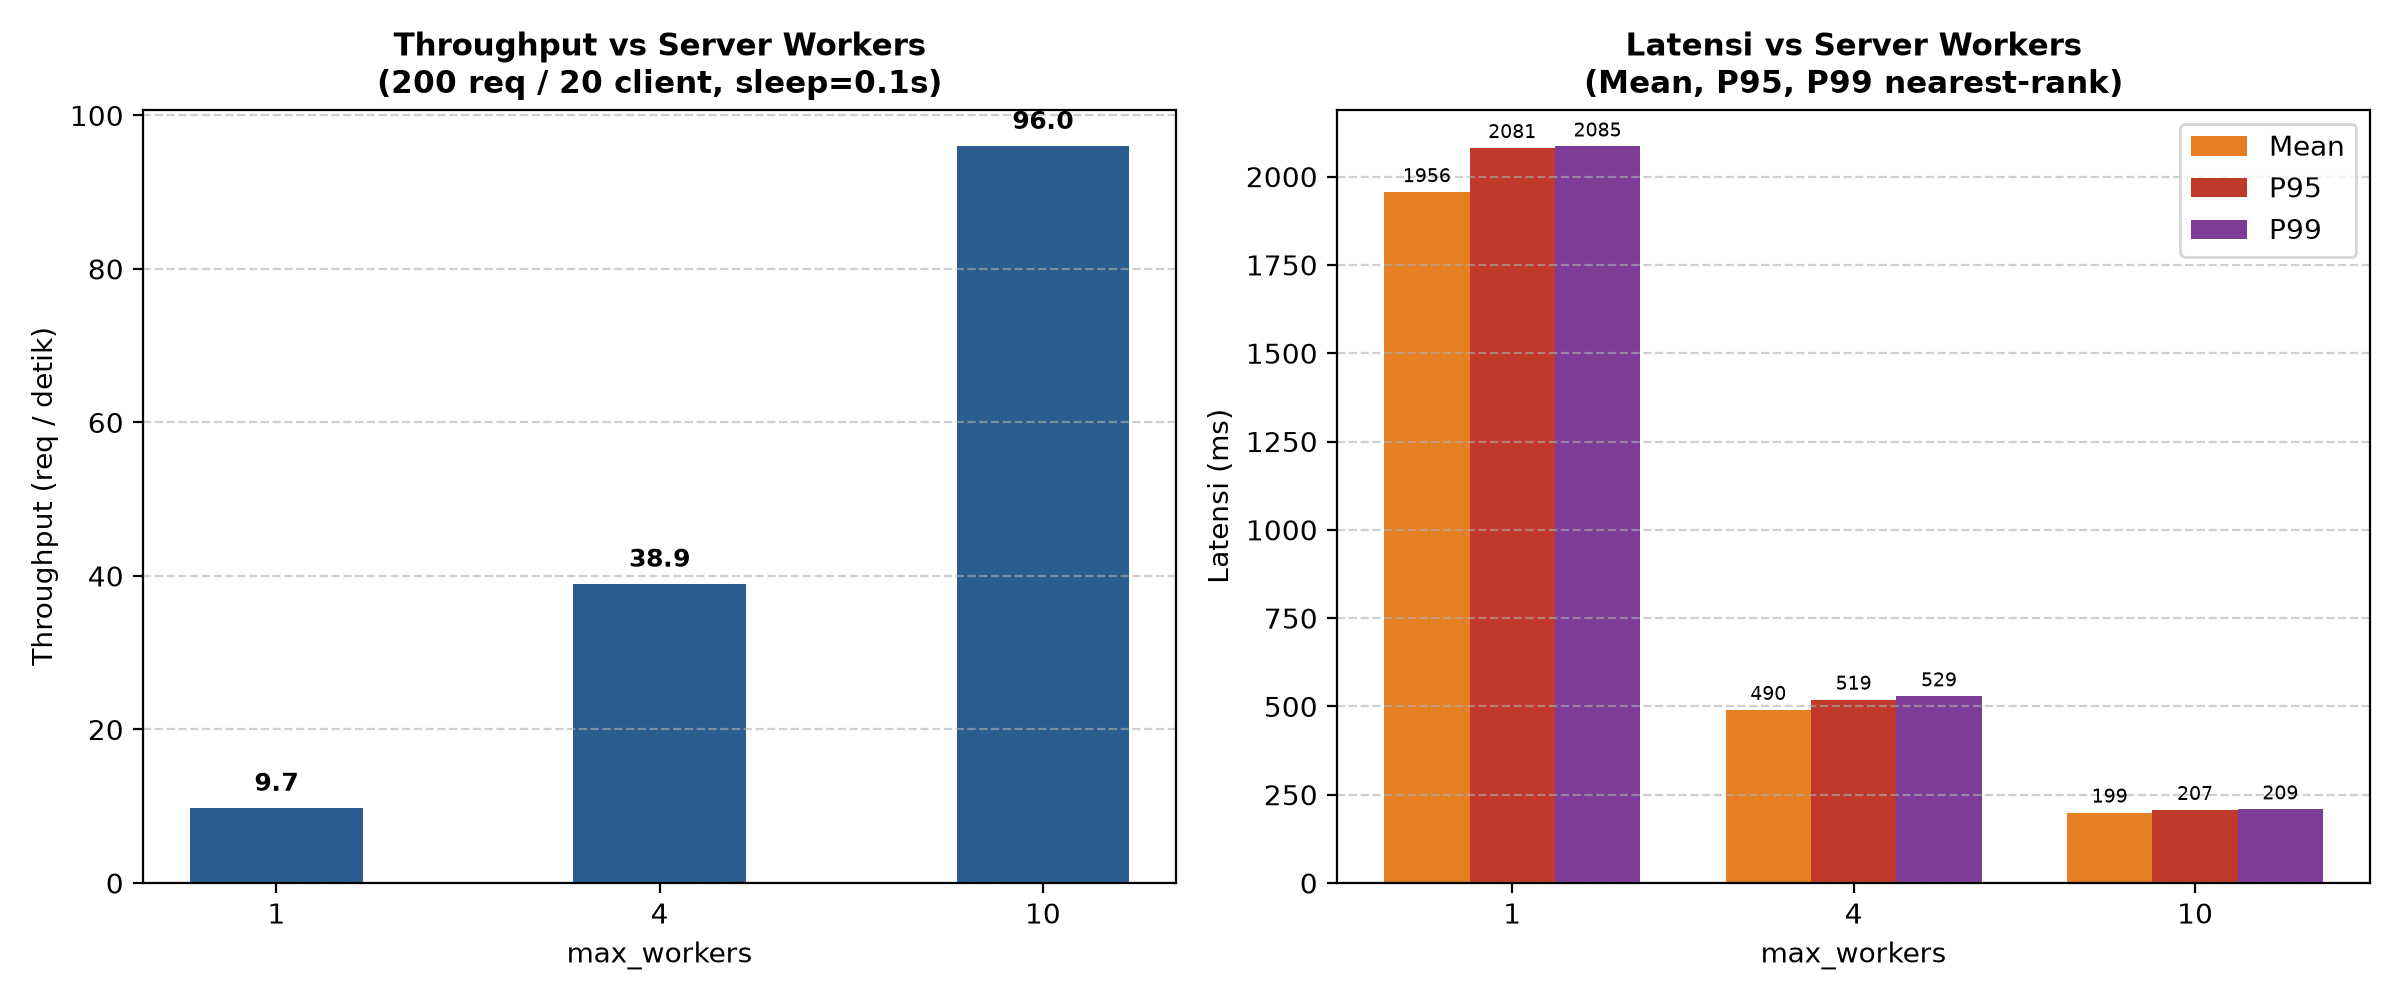
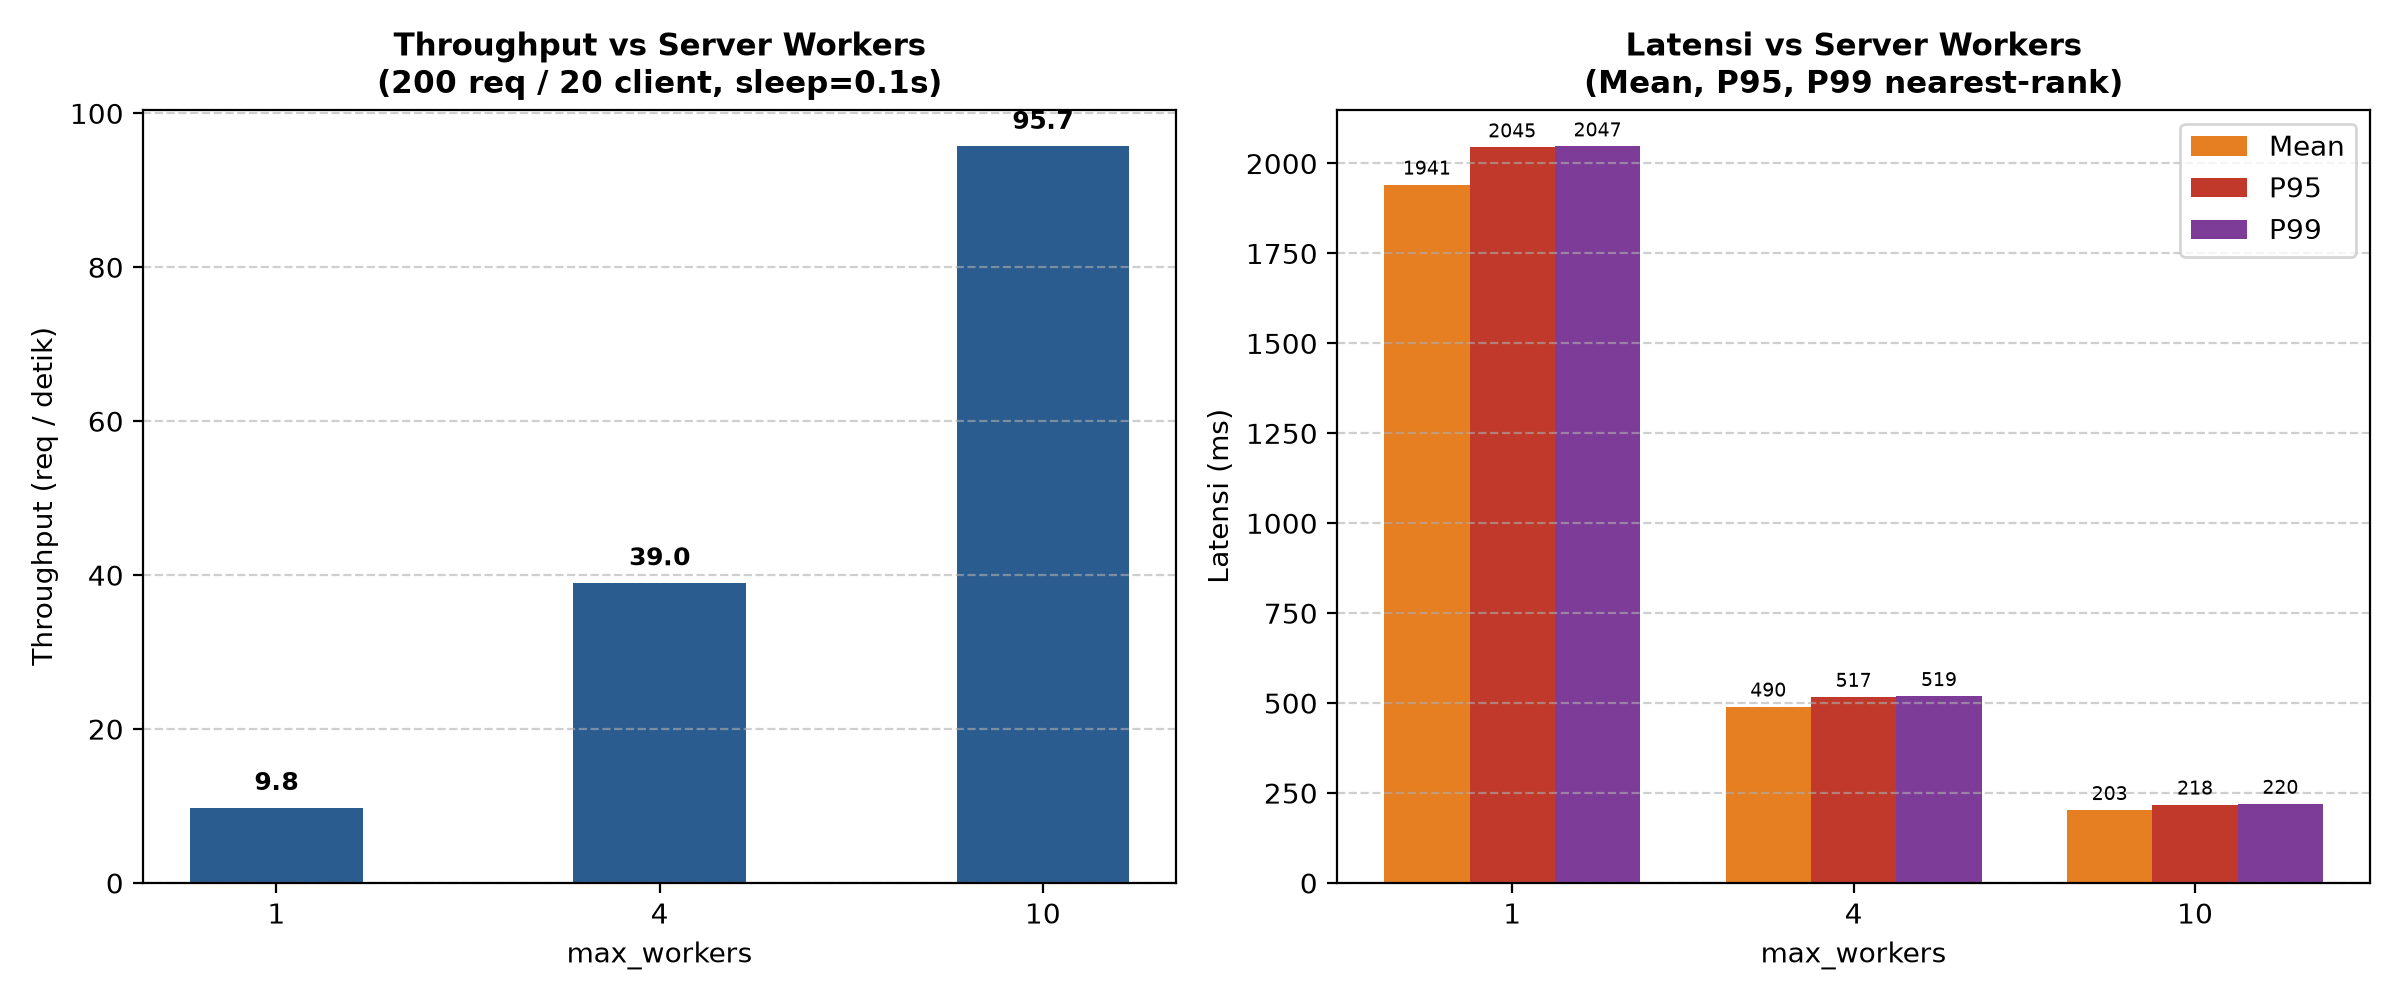
docs: last Readme

diff --git a/server_kalkulator.py b/server_kalkulator.py
@@ -1,0 +1,37 @@
+import math
+from xmlrpc.server import SimpleXMLRPCServer
+
+def tambah(a, b):
+    return a + b
+
+def kali(a, b):
+    return a * b
+
+def bagi(a, b):
+    if b == 0:
+        raise ValueError("Pembagian dengan nol")
+    return a / b
+
+# --- L1.1 ---
+def pangkat(a, b):
+    return a ** b
+
+def akar(x):
+    if x < 0:
+        raise ValueError("Akar bilangan negatif tidak didukung")
+    return math.sqrt(x)
+
+# --- L1.2 ---
+def statistik(daftar):
+    return {"min": min(daftar), "max": max(daftar), "rata2": sum(daftar) / len(daftar)}
+
+# --- L1.3 ---
+def info_tipe(x):
+    return f"server menerima tipe {type(x).__name__}: {x!r}"
+
+server = SimpleXMLRPCServer(("0.0.0.0", 8000), allow_none=True, logRequests=True)
+server.register_introspection_functions()
+for f in (tambah, kali, bagi, pangkat, akar, statistik, info_tipe):
+    server.register_function(f, f.__name__)
+print("Server XML-RPC berjalan di port 8000...")
+server.serve_forever()

diff --git a/README.md b/README.md
@@ -6,7 +6,7 @@ Repositori pengerjaan praktikum individu mata kuliah Komputasi Paralel dan Terdi
 
 | Praktikum | Topik | Butir | Status |
 | --- | --- | --- | --- |
-| 1 | XML-RPC | L1.1 - L1.5 | Selesai; L1.4 tervalidasi lokal, uji lintas komputer belum |
+| 1 | XML-RPC | L1.1 - L1.5 | Selesai|
 | 2 | gRPC dan Protocol Buffers | L2.1 - L2.5 | Selesai dan tervalidasi |
 | 3 | Concurrency, timeout, failover | L3.1 - L3.5 | Selesai dan tervalidasi |
 
@@ -106,7 +106,7 @@ Kode praktikum tidak diletakkan di root. Semua panduan eksekusi dipusatkan di RE
 | L1.1 | `pangkat(a, b)` dan `akar(x)` | `praktikum1/calculator_service.py` |
 | L1.2 | `statistik(daftar)` -> min, max, rata2 | `praktikum1/calculator_service.py` |
 | L1.3 | `datetime` dan integer `2^31 + 1` via ekstensi `<i8>` | `praktikum1/client_calculator.py --probe-l1-3`, `praktikum1/xmlrpc_i8.py` |
-| L1.4 | 100 panggilan RPC vs lokal (localhost; lintas komputer belum) | `praktikum1/benchmark_latency.py` |
+| L1.4 | 100 panggilan RPC vs lokal | `praktikum1/benchmark_latency.py` |
 | L1.5 | Perilaku saat server berhenti | `praktikum1/client_calculator.py --expect-offline` |
 | L2.1 | Client streaming `KirimBanyakNilai` | `praktikum2/server_grpc.py`, `client_grpc.py` |
 | L2.2 | Bidirectional streaming `Diskusi` | `praktikum2/server_grpc.py`, `client_grpc.py` |
@@ -201,9 +201,10 @@ integer besar dikirim/diterima: 2147483649 -> 2147483649 (int)
 ## L1.4 - Latensi lokal vs XML-RPC
 
 Dengan server aktif:
+python praktikum1/benchmark_latency.py --host 192.168.18.231 --port 8000 --samples 100 --warmup 10
 
 ```powershell
-python praktikum1\benchmark_latency.py --samples 100 --warmup 10
+python praktikum1/benchmark_latency.py --host 0.0.0.0 --port 8000 --samples 100 --warmup 10
 ```
 
 Benchmark melakukan pemanasan, lalu mengukur setiap panggilan dengan `time.perf_counter()` dan melaporkan total, rata-rata, median, stdev, minimum, dan maksimum. Hasil validasi terakhir pada satu mesin (Windows 11, Python 3.14.7, `127.0.0.1:8000`, 100 sampel, 10 pemanasan, resolusi timer 100 ns):
